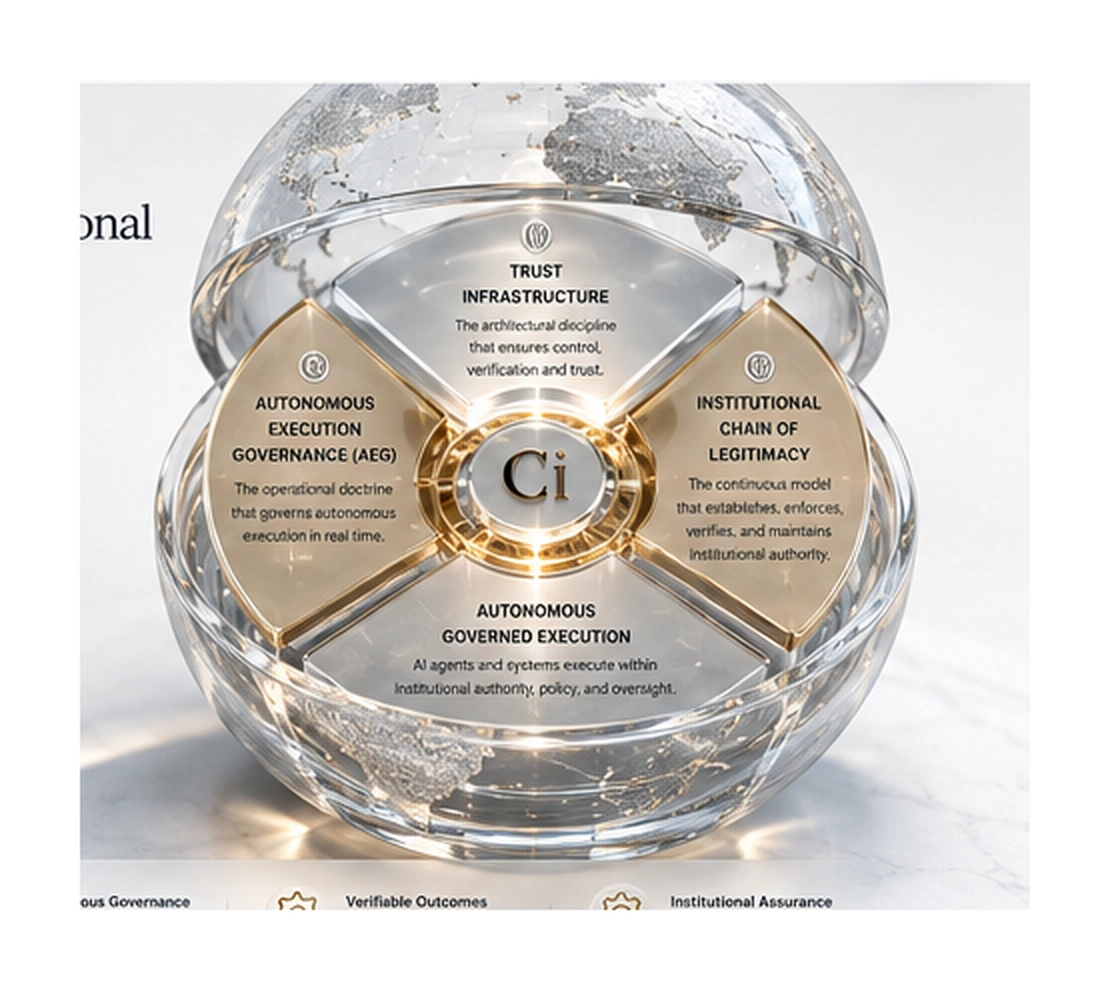
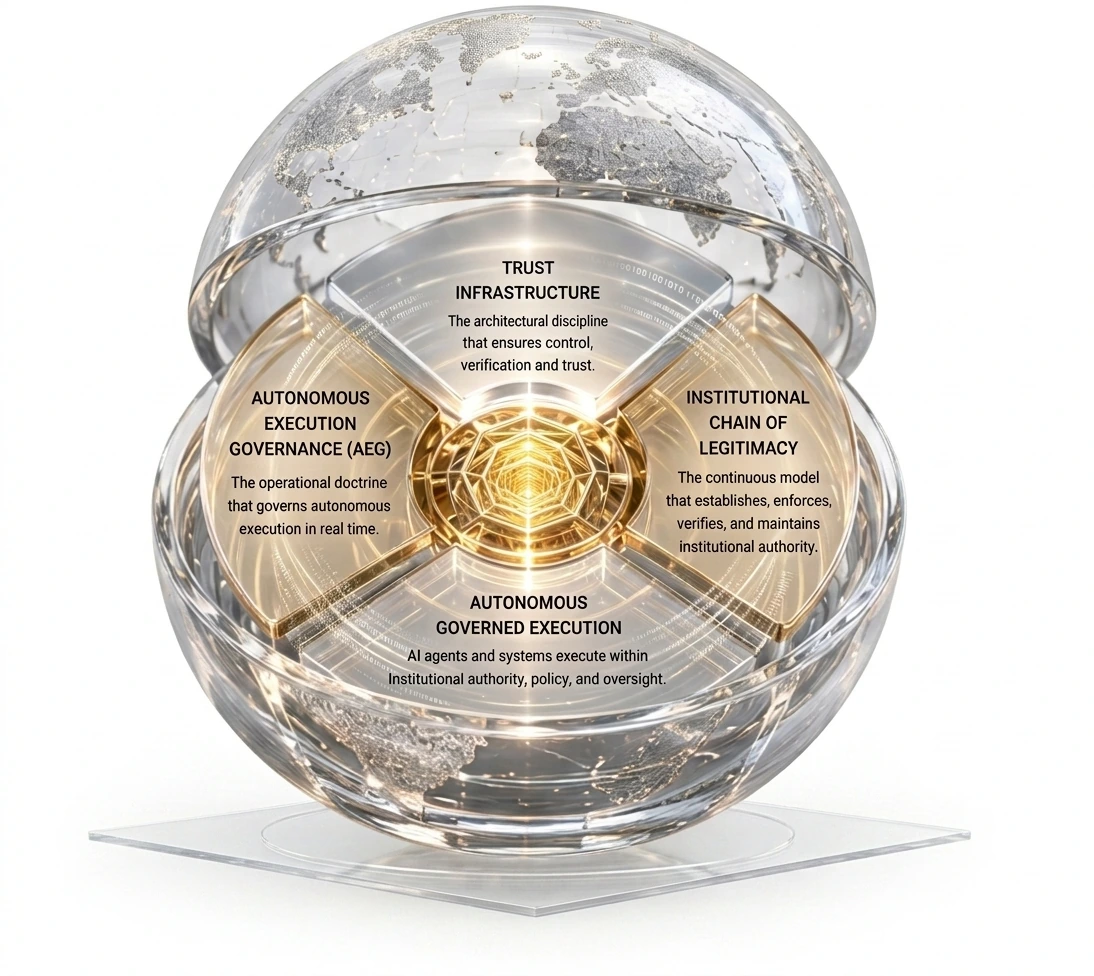
fix(visuals): regenerated 3D assets — Ci mark removed, clean backgrounds
- trust-infrastructure-3d.webp: Ci mark removed from marble base
- governance-ecosystem-3d.webp: literal 'Ci' text replaced with an abstract
  gold medallion at the globe's center
- institutional-control-3d.webp: unchanged design, refreshed export
- All three verified on a genuinely flat #FFFFFF background (border-ring
  std < 1.0; ecosystem's higher initial reading traced to the globe's own
  geometry touching the frame edge, confirmed not a background defect) —
  pure file swap, no extraction needed, no code changes

diff --git a/src/styles.css b/src/styles.css
@@ -4380,7 +4380,7 @@ body,
 .cidg-governance-ecosystem-copy h2{max-width:16ch}.cidg-governance-ecosystem-copy p{max-width:62ch}
 .cidg-governance-ecosystem-feature .cidg-platinum-visual--ecosystem{width:100%;max-width:680px;margin:0 auto;overflow:hidden;background:#fff}
 .cidg-governance-ecosystem-feature .cidg-platinum-visual--ecosystem img{display:block;width:100%;max-width:100%;height:auto;object-fit:contain}
-.cidg-framework-page .cidg-platinum-visual-section{width:min(100%,980px);margin:clamp(2.5rem,6vw,5rem) auto;padding:clamp(1rem,3vw,2rem);overflow:hidden;background:#fff}
+.cidg-framework-page .cidg-platinum-visual-section{width:min(100%,980px);margin:clamp(2.5rem,6vw,5rem) auto;padding:clamp(1rem,3vw,2rem);overflow:hidden;background:#DAD5D1}
 .cidg-framework-page .cidg-platinum-visual--control{width:100%;max-width:860px;margin:0 auto;overflow:hidden}
 .cidg-framework-page .cidg-platinum-visual--control img{display:block;width:100%;max-width:100%;height:auto;object-fit:contain}
 @media(max-width:800px){.cidg-governance-ecosystem-feature{grid-template-columns:1fr;padding:1.5rem;gap:1.75rem}.cidg-governance-ecosystem-copy h2{max-width:none}.cidg-platinum-visual--hero{width:min(92vw,620px)}.cidg-framework-page .cidg-platinum-visual-section{width:calc(100% - 2rem);padding:.75rem}}
